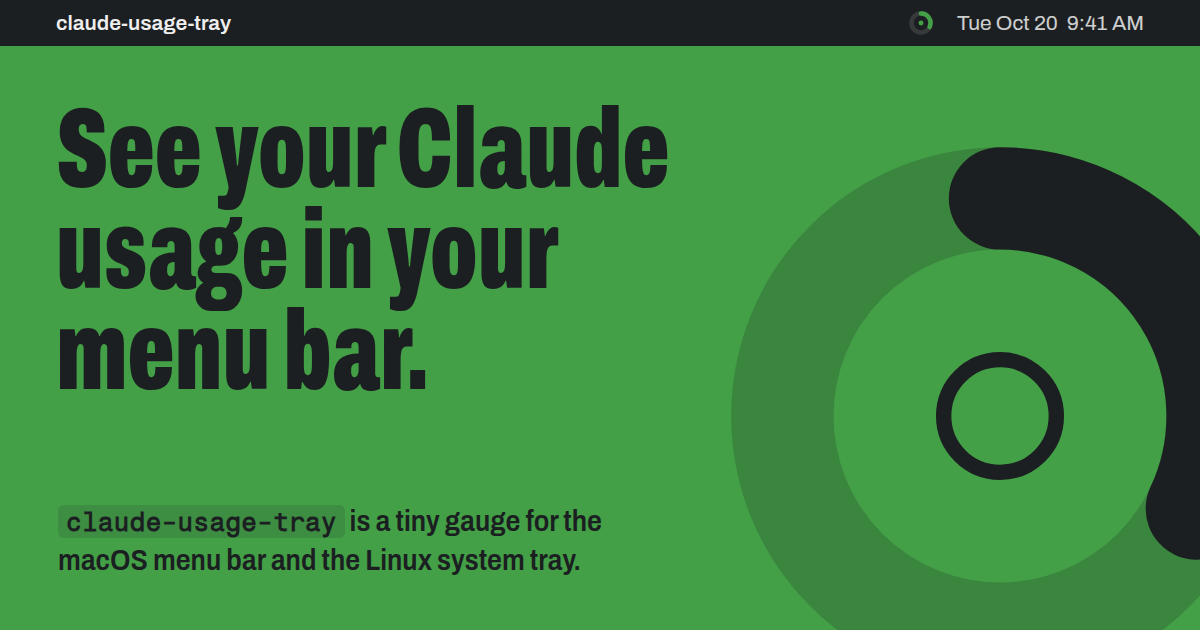
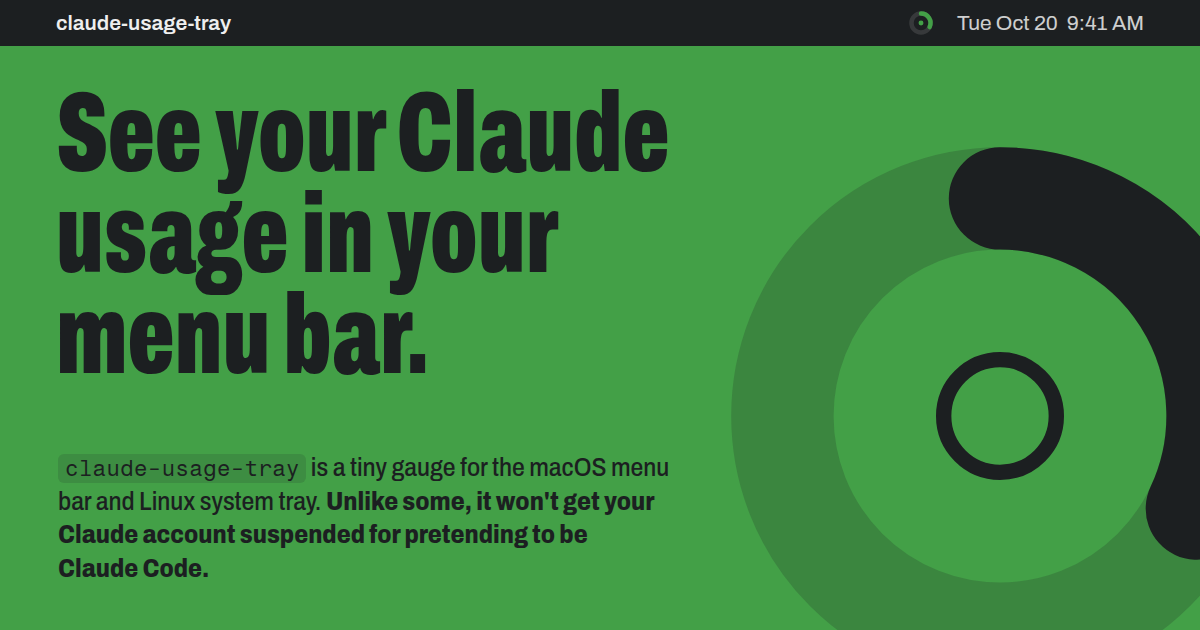
Mention on the social card that the app won't get a Claude account suspended

Changed region(s): [[0.0308, 0.1206, 0.555, 0.6333], [0.0308, 0.7238, 0.555, 0.9349]]

diff --git a/assets/social-card.html b/assets/social-card.html
@@ -37,7 +37,7 @@
   h1 {
     position: absolute;
     left: 56px;
-    top: 100px;
+    top: 84px;
     width: 640px;
     margin: 0;
     font-size: 112px;
@@ -48,14 +48,15 @@
   p {
     position: absolute;
     left: 58px;
-    bottom: 50px;
-    width: 600px;
+    bottom: 44px;
+    width: 640px;
     margin: 0;
-    font-size: 30px;
+    font-size: 26px;
     line-height: 1.3;
-    font-weight: 600;
+    font-weight: 500;
     font-variation-settings: "wdth" 85;
   }
+  p strong { font-weight: 800; }
   code {
     font-family: "Fragment Mono", monospace;
     font-size: 0.86em;
@@ -84,7 +85,7 @@
   </div>
 
   <h1>See your Claude usage in your menu bar.</h1>
-  <p><code>claude-usage-tray</code> is a tiny gauge for the macOS menu bar and the Linux system tray.</p>
+  <p><code>claude-usage-tray</code> is a tiny gauge for the macOS menu bar and Linux system tray. <strong>Unlike some, it won't get your Claude account suspended for pretending to be Claude&nbsp;Code.</strong></p>
 
   <!-- 32% session arc and a weekly dot, the same geometry as the tray icon. -->
   <svg class="gauge" viewBox="0 0 100 100" aria-hidden="true">
